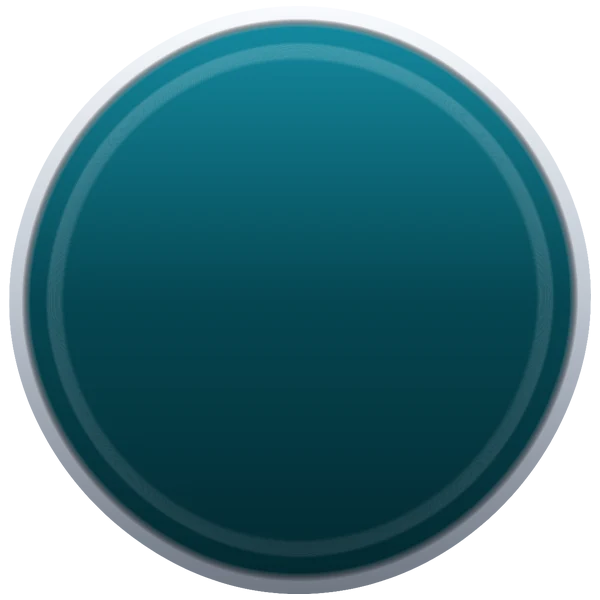
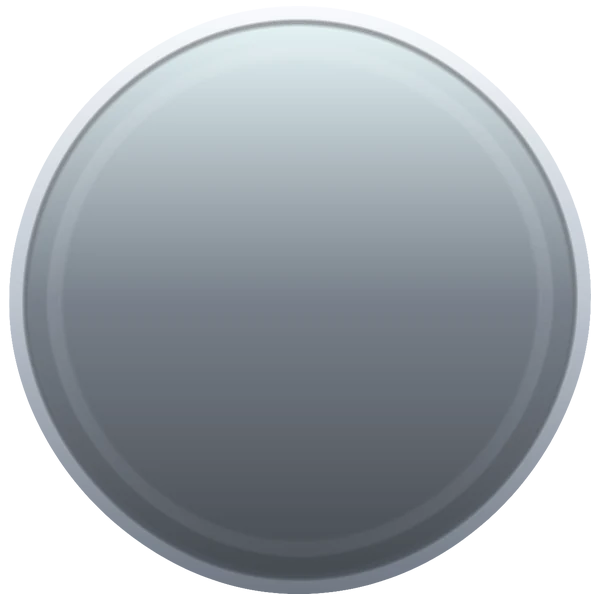
Rewards: Globetrotter badge back is silver with a dark caption
Claude-Session: https://claude.ai/code/session_01L2c2uDUi3YiszjcGLcyyrM

diff --git a/src/components/rewards/rewards-view.tsx b/src/components/rewards/rewards-view.tsx
@@ -34,7 +34,8 @@ const art = {
   first: { slug: "day-one", ink: SILVER_INK, box: "20% 21%" },
   saver: { slug: "super-saver", ink: GOLD_INK, box: "20% 21%" },
   streak: { slug: "on-fire", ink: GOLD_INK, box: "40% 22% 12%" },
-  travel: { slug: "globetrotter", ink: SILVER_INK, box: "21%" },
+  // Silver back, so the caption is dark for contrast.
+  travel: { slug: "globetrotter", ink: "#151b22", box: "21%" },
   locked: { slug: "locked", ink: SILVER_INK, box: "21%" },
 } satisfies Record<string, BadgeArt>;
 
